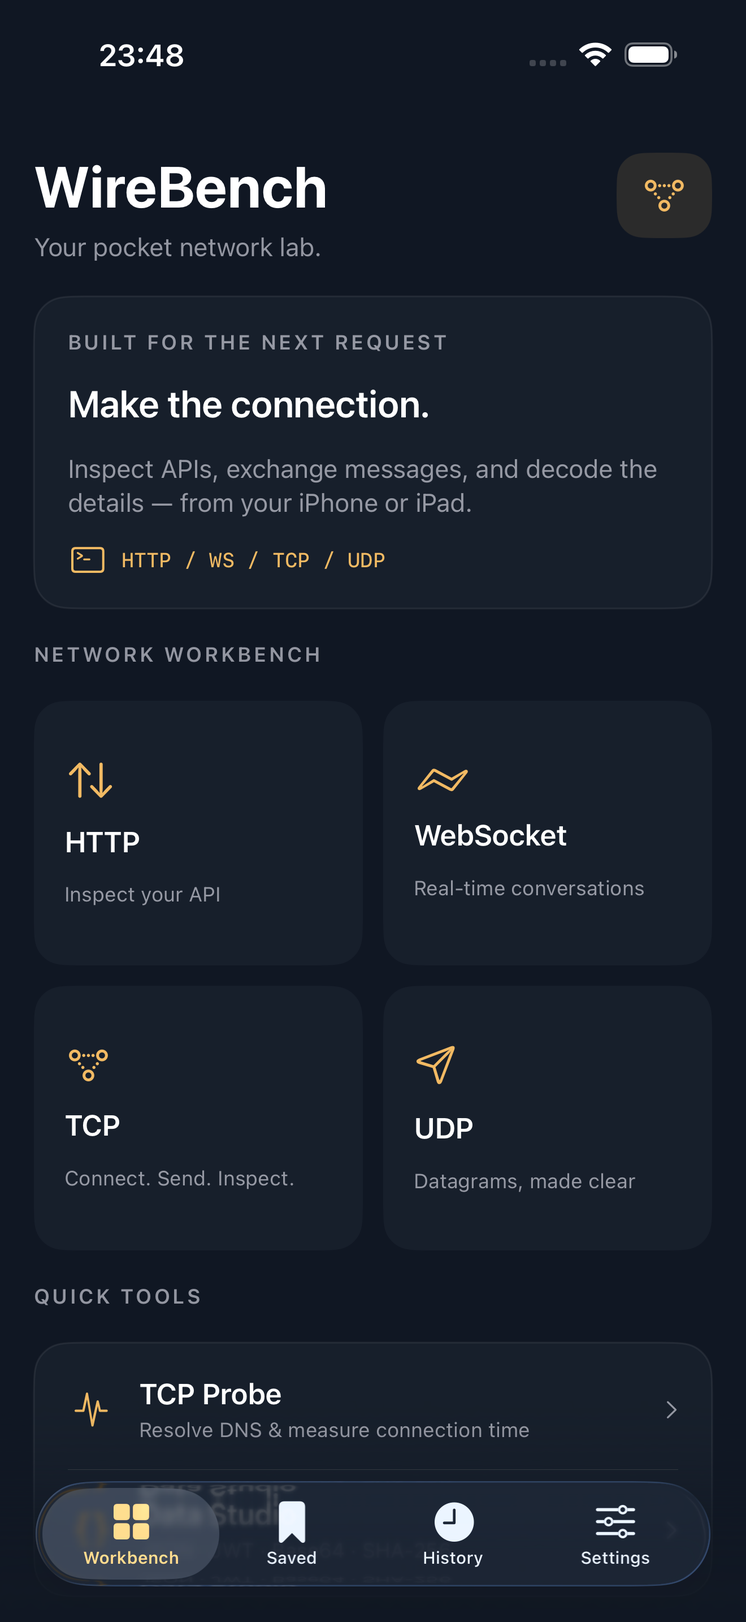
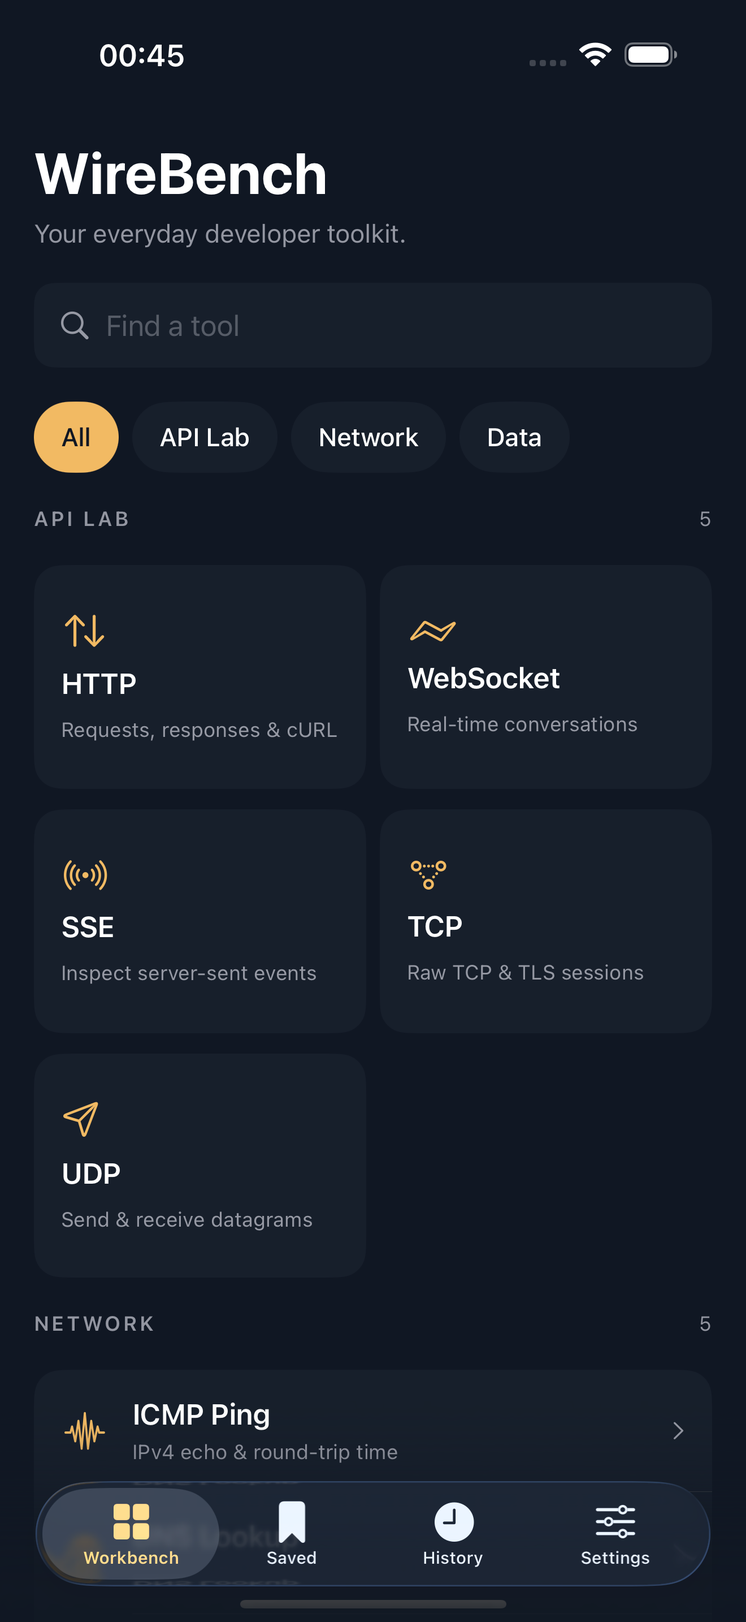
Expand WireBench developer toolkit for iPhone

diff --git a/support.html b/support.html
@@ -1,4 +1,4 @@
 <!doctype html><html lang="en"><head><meta charset="utf-8"><meta name="viewport" content="width=device-width,initial-scale=1"><title>Support — WireBench</title><meta name="description" content="WireBench support, getting started, connection help and developer contact."><link rel="icon" href="icon.png"><link rel="stylesheet" href="style.css"></head><body><header><a class="brand" href="./"><img src="icon.png" alt="">WireBench</a><nav><a href="privacy.html" data-en="Privacy" data-zh="隐私政策">Privacy</a><button id="language">中文</button></nav></header><main class="document">
-<article data-language="en"><p class="eyebrow">HERE TO HELP</p><h1>Back to building.</h1><p>For help with WireBench, email <a href="mailto:540933120@qq.com?subject=WireBench%20Support">540933120@qq.com</a>. Include your app version, iOS version, tool and reproduction steps. Remove passwords, tokens and private payloads before sending screenshots or logs.</p><h2>Get started</h2><ol><li>Choose HTTP, WebSocket, TCP, UDP or TCP Probe on the Workbench.</li><li>Enter a server address and the required port or scheme. Use an endpoint you control or are authorized to test.</li><li>Tap Send, Connect or Probe. For socket tools, enter a message after connection and tap Send message.</li><li>Use the bookmark button to save an endpoint. Headers, bodies and recognized credentials are not saved.</li></ol><h2>Why won't my local server connect?</h2><p>Check that your device and server can reach each other, that the service is listening on the right network interface, and that the port and protocol match. On a physical iPhone, 127.0.0.1 refers to the phone, not your Mac. Use your development computer's reachable address. Check iOS Settings → Privacy & Security → Local Network and your firewall.</p><h2>Why did the connection close?</h2><p>WireBench ends sessions when it enters the background or you leave the tool. iOS does not allow an ordinary utility app to keep arbitrary network sessions running indefinitely in the background.</p><h2>Limits and formats</h2><p>HTTP responses are limited to 2 MiB; request bodies and WebSocket messages to 256 KiB. UDP payloads must contain 1–65,507 bytes; empty datagrams are not reliably supported by the system networking API. Session logs retain the newest entries up to 200 messages and a 4 MiB text budget. Data Studio accepts up to 1 MiB of input. TCP is a byte stream: receive events are chunks and are not guaranteed to match individual sends. HEX input uses pairs of hexadecimal digits; whitespace is allowed. Base64 input must be valid Base64.</p><h2>Trust and interpretation</h2><p>TLS uses normal system trust. Untrusted certificates are rejected. TCP Probe measures connection setup, not ICMP round-trip time. UDP readiness is not proof of delivery. JWT decoding does not verify a signature or validate claims. Redaction helps with common credentials, but always inspect shared content. TCP and encoded binary session exports omit payloads and include only metadata, because stream chunks may split a credential.</p><h2>Delete local data</h2><p>Open Settings → Delete all local records. You can also delete individual saved endpoints or clear history. See the <a href="privacy.html">privacy policy</a> for backups, sharing and support email handling.</p></article>
-<article data-language="zh" hidden><p class="eyebrow">使用支持</p><h1>继续专注开发。</h1><p>如需帮助，请发送邮件至 <a href="mailto:540933120@qq.com?subject=WireBench%20Support">540933120@qq.com</a>。请说明应用版本、iOS 版本、使用的工具与复现步骤。发送截图和日志前，请移除密码、令牌与私密报文。</p><h2>快速开始</h2><ol><li>在工作台选择 HTTP、WebSocket、TCP、UDP 或 TCP 探测。</li><li>输入服务器地址及端口或协议。仅测试你拥有或获授权的端点。</li><li>点击发送、连接或探测。Socket 工具连接后可输入消息并发送。</li><li>点击书签按钮保存端点。请求头、请求体与识别出的凭证不会保存。</li></ol><h2>为什么连不上本地服务器？</h2><p>检查设备与服务器是否互通，服务是否监听正确的网络接口，端口和协议是否匹配。真机上的 127.0.0.1 指向手机自身，而非 Mac，请使用开发电脑可访问的地址。检查 iOS“设置 → 隐私与安全性 → 本地网络”以及防火墙。</p><h2>为什么连接会关闭？</h2><p>应用进入后台或离开工具页时，会结束会话。iOS 不允许普通工具应用在后台无限维持任意网络连接。</p><h2>容量与格式</h2><p>HTTP 响应上限 2 MiB，请求体和 WebSocket 单条消息上限 256 KiB。UDP 发送内容应包含 1–65,507 字节；系统网络 API 无法可靠处理空数据报。会话日志最多保留最新 200 条，并有 4 MiB 文本总量限制。数据工坊输入上限 1 MiB。TCP 是字节流，接收块不保证与每次发送一一对应。HEX 输入应为成对十六进制数字，可包含空格；Base64 输入应符合 Base64 格式。</p><h2>如何理解结果？</h2><p>TLS 使用系统信任校验，不可信证书会被拒绝。TCP 探测测量建连耗时，并非 ICMP 往返时间。UDP 就绪不代表已送达。JWT 解码不验证签名或声明可信性。脱敏只能帮助识别常见凭证，请务必检查分享内容。TCP 与编码后二进制会话的导出省略报文，仅保留元数据，因为流分块可能拆开一个凭证。</p><h2>删除本地数据</h2><p>进入“设置 → 删除全部本地记录”，也可单独删除收藏或清空历史。关于备份、分享与支持邮件处理，请查看<a href="privacy.html">隐私政策</a>。</p></article>
+<article data-language="en"><p class="eyebrow">HERE TO HELP</p><h1>Back to building.</h1><p>For help with WireBench, email <a href="mailto:540933120@qq.com?subject=WireBench%20Support">540933120@qq.com</a>. Include your app version, iOS version, tool and reproduction steps. Remove passwords, tokens and private payloads before sending screenshots or logs.</p><h2>Get started</h2><ol><li>Search the Workbench or choose API Lab, Network or Data. Open the tool for your task.</li><li>Enter a server address and the required port or scheme. Use an endpoint you control or are authorized to test.</li><li>Tap Send, Connect or Probe. For socket tools, enter a message after connection and tap Send message.</li><li>Use the bookmark button to save an endpoint. Headers, bodies and recognized credentials are not saved.</li></ol><h2>Why won't my local server connect?</h2><p>Check that your device and server can reach each other, that the service is listening on the right network interface, and that the port and protocol match. On a physical iPhone, 127.0.0.1 refers to the phone, not your Mac. Use your development computer's reachable address. Check iOS Settings → Privacy & Security → Local Network and your firewall.</p><h2>Why did the connection close?</h2><p>WireBench ends sessions when it enters the background or you leave the tool. iOS does not allow an ordinary utility app to keep arbitrary network sessions running indefinitely in the background.</p><h2>Limits and formats</h2><p>HTTP responses are limited to 2 MiB; request bodies and WebSocket messages to 256 KiB. UDP payloads must contain 1–65,507 bytes; empty datagrams are not reliably supported by the system networking API. Session logs retain the newest entries up to 200 messages and a 4 MiB text budget. Data Studio accepts up to 1 MiB of input. TCP is a byte stream: receive events are chunks and are not guaranteed to match individual sends. HEX input uses pairs of hexadecimal digits; whitespace is allowed. Base64 input must be valid Base64.</p><h2>Trust and interpretation</h2><p>TLS uses normal system trust. Untrusted certificates are rejected. TCP Probe measures connection setup, not ICMP round-trip time. UDP readiness is not proof of delivery. JWT decoding does not verify a signature or validate claims. Redaction helps with common credentials, but always inspect shared content. TCP and encoded binary session exports omit payloads and include only metadata, because stream chunks may split a credential.</p><h2>New diagnostic and import tools</h2><p>ICMP Ping sends four IPv4 echo requests; filtered replies can time out even when a server is healthy. DNS Lookup uses the system resolver for IPv4/IPv6 addresses. Port Check accepts up to 16 comma-separated TCP ports on one host. TLS Inspector uses normal system trust and shows the negotiated protocol, cipher and certificate-chain subject/fingerprints. It does not display unverified certificate dates. SSE stops at 200 events, 4 MiB, 30 seconds of inactivity or five minutes total; it does not reconnect automatically. cURL imports support a documented subset, do not execute shell commands, and never send automatically.</p><h2>Delete local data</h2><p>Open Settings → Delete all local records. You can also delete individual saved endpoints or clear history. See the <a href="privacy.html">privacy policy</a> for backups, sharing and support email handling.</p></article>
+<article data-language="zh" hidden><p class="eyebrow">使用支持</p><h1>继续专注开发。</h1><p>如需帮助，请发送邮件至 <a href="mailto:540933120@qq.com?subject=WireBench%20Support">540933120@qq.com</a>。请说明应用版本、iOS 版本、使用的工具与复现步骤。发送截图和日志前，请移除密码、令牌与私密报文。</p><h2>快速开始</h2><ol><li>在工作台搜索工具，或筛选接口联调、网络诊断与数据工具分类。</li><li>输入服务器地址及端口或协议。仅测试你拥有或获授权的端点。</li><li>点击发送、连接或探测。Socket 工具连接后可输入消息并发送。</li><li>点击书签按钮保存端点。请求头、请求体与识别出的凭证不会保存。</li></ol><h2>为什么连不上本地服务器？</h2><p>检查设备与服务器是否互通，服务是否监听正确的网络接口，端口和协议是否匹配。真机上的 127.0.0.1 指向手机自身，而非 Mac，请使用开发电脑可访问的地址。检查 iOS“设置 → 隐私与安全性 → 本地网络”以及防火墙。</p><h2>为什么连接会关闭？</h2><p>应用进入后台或离开工具页时，会结束会话。iOS 不允许普通工具应用在后台无限维持任意网络连接。</p><h2>容量与格式</h2><p>HTTP 响应上限 2 MiB，请求体和 WebSocket 单条消息上限 256 KiB。UDP 发送内容应包含 1–65,507 字节；系统网络 API 无法可靠处理空数据报。会话日志最多保留最新 200 条，并有 4 MiB 文本总量限制。数据工坊输入上限 1 MiB。TCP 是字节流，接收块不保证与每次发送一一对应。HEX 输入应为成对十六进制数字，可包含空格；Base64 输入应符合 Base64 格式。</p><h2>如何理解结果？</h2><p>TLS 使用系统信任校验，不可信证书会被拒绝。TCP 探测测量建连耗时，并非 ICMP 往返时间。UDP 就绪不代表已送达。JWT 解码不验证签名或声明可信性。脱敏只能帮助识别常见凭证，请务必检查分享内容。TCP 与编码后二进制会话的导出省略报文，仅保留元数据，因为流分块可能拆开一个凭证。</p><h2>新增诊断与导入工具</h2><p>ICMP Ping 发送 4 次 IPv4 回显请求，服务正常时也可能因过滤而超时。DNS 查询使用系统解析器返回 IPv4 / IPv6 地址。端口检测支持单主机最多 16 个以英文逗号分隔的 TCP 端口。TLS 检查使用系统信任，展示协商协议、密码套件以及证书链主体和指纹，不显示未经读取的证书日期。SSE 达到 200 条事件、4 MiB、30 秒无活动或总时长 5 分钟时停止，不自动重连。cURL 导入仅支持应用列明的语法子集，不执行 Shell 命令，也不会自动发送。</p><h2>删除本地数据</h2><p>进入“设置 → 删除全部本地记录”，也可单独删除收藏或清空历史。关于备份、分享与支持邮件处理，请查看<a href="privacy.html">隐私政策</a>。</p></article>
 </main><footer><span>© 2026 Peng Lin · WireBench</span><a href="./" data-en="Back to WireBench" data-zh="返回 WireBench">Back to WireBench</a></footer><script src="language.js"></script></body></html>

diff --git a/index.html b/index.html
@@ -1,12 +1,12 @@
-<!doctype html><html lang="en"><head><meta charset="utf-8"><meta name="viewport" content="width=device-width,initial-scale=1"><meta name="description" content="WireBench — a native network workbench for iPhone and iPad. HTTP, WebSocket, TCP, UDP and everyday developer data tools."><meta name="theme-color" content="#101723"><title>WireBench — Your pocket network lab</title><link rel="icon" href="icon.png"><link rel="stylesheet" href="style.css"></head><body>
+<!doctype html><html lang="en"><head><meta charset="utf-8"><meta name="viewport" content="width=device-width,initial-scale=1"><meta name="description" content="WireBench — a native network workbench for iPhone. API clients, ICMP Ping, DNS, TLS, cURL and everyday data tools."><meta name="theme-color" content="#101723"><title>WireBench — Your everyday developer toolkit</title><link rel="icon" href="icon.png"><link rel="stylesheet" href="style.css"></head><body>
 <header><a class="brand" href="./"><img src="icon.png" alt="">WireBench</a><nav><a href="support.html" data-en="Support" data-zh="使用支持">Support</a><a href="privacy.html" data-en="Privacy" data-zh="隐私政策">Privacy</a><button id="language" aria-label="Switch language">中文</button></nav></header>
-<main><section class="hero"><div><p class="eyebrow" data-en="THE DEVELOPER'S POCKET WORKBENCH" data-zh="开发者的随身联调台">THE DEVELOPER'S POCKET WORKBENCH</p><h1 data-en="Make the<br>connection." data-zh="让连接，<br>清晰可见。">Make the<br>connection.</h1><p class="lead" data-en="A thoughtful network toolkit for the moments between your desk and your next idea. Inspect APIs, exchange messages, and decode the details." data-zh="为日常开发中的小任务准备。检查接口、收发报文、解析数据，在 iPhone 和 iPad 上把问题看清楚。">A thoughtful network toolkit for the moments between your desk and your next idea. Inspect APIs, exchange messages, and decode the details.</p><div class="pillrow"><span class="pill">HTTP / HTTPS</span><span class="pill">WS / WSS</span><span class="pill">TCP / UDP</span></div><a class="cta" href="#tools" data-en="Explore the workbench ↓" data-zh="了解工具能力 ↓">Explore the workbench ↓</a><p class="note" data-en="For iPhone & iPad · iOS 17 or later · English & 简体中文" data-zh="适用于 iPhone 与 iPad · iOS 17 及以上 · 中英文">For iPhone & iPad · iOS 17 or later · English & 简体中文</p></div><img class="shot" src="workbench.png" alt="WireBench running on iPhone, showing its network tools"></section>
+<main><section class="hero"><div><p class="eyebrow" data-en="THE DEVELOPER'S POCKET WORKBENCH" data-zh="开发者的随身联调台">THE DEVELOPER'S POCKET WORKBENCH</p><h1 data-en="Build. Inspect.<br>Understand." data-zh="开发所需，<br>随手可用。">Build. Inspect.<br>Understand.</h1><p class="lead" data-en="A thoughtful network toolkit for the moments between your desk and your next idea. Inspect APIs, exchange messages, and decode the details." data-zh="为日常开发中的小任务准备。检查接口、收发报文、解析数据，在 iPhone 上把问题看清楚。">A thoughtful network toolkit for the moments between your desk and your next idea. Inspect APIs, exchange messages, and decode the details.</p><div class="pillrow"><span class="pill">API / cURL / SSE</span><span class="pill">Ping / DNS / TLS</span><span class="pill">JSON / HEX / UUID</span></div><a class="cta" href="#tools" data-en="Explore the workbench ↓" data-zh="了解工具能力 ↓">Explore the workbench ↓</a><p class="note" data-en="For iPhone · iOS 17 or later · English & 简体中文" data-zh="适用于 iPhone · iOS 17 及以上 · 中英文">For iPhone · iOS 17 or later · English & 简体中文</p></div><img class="shot" src="workbench.png" alt="WireBench running on iPhone, showing its network tools"></section>
 <section id="tools"><p class="eyebrow" data-en="LESS FRICTION. MORE CLARITY." data-zh="让每一次联调更清晰">LESS FRICTION. MORE CLARITY.</p><h2 class="section-title" data-en="One workbench. The right tools." data-zh="一个工作台，装下常用工具。">One workbench. The right tools.</h2><div class="grid">
-<article class="card"><span class="number">01 / REQUEST</span><h3>HTTP & HTTPS</h3><p data-en="Methods, custom headers and request bodies. Inspect status, duration, headers and response content in one place." data-zh="编辑请求方法、自定义请求头和请求体，在一处查看状态码、耗时与响应内容。">Methods, custom headers and request bodies. Inspect status, duration, headers and response content in one place.</p></article>
-<article class="card"><span class="number">02 / CONVERSATION</span><h3>WebSocket</h3><p data-en="Connect with WS or WSS, send text or binary messages, ping the connection, and follow a timestamped traffic log." data-zh="连接 WS / WSS，发送文本或二进制消息，执行协议 Ping，并查看带时间戳的收发报文。">Connect with WS or WSS, send text or binary messages, ping the connection, and follow a timestamped traffic log.</p></article>
+<article class="card"><span class="number">01 / REQUEST</span><h3>HTTP & HTTPS</h3><p data-en="Build requests or import a cURL command. Inspect status, timing, headers and content, then export a redacted cURL request." data-zh="编辑请求或导入 cURL，查看状态码、耗时、响应头和内容，再导出脱敏后的 cURL 请求。">Build requests or import a cURL command. Inspect status, timing, headers and content, then export a redacted cURL request.</p></article>
+<article class="card"><span class="number">02 / CONVERSATION</span><h3>WebSocket & SSE</h3><p data-en="Exchange WS/WSS messages and protocol pings, or inspect server-sent events with event names, IDs and multiline data." data-zh="收发 WS / WSS 消息与协议 Ping，或订阅 SSE，查看事件类型、ID 和多行数据。">Exchange WS/WSS messages and protocol pings, or inspect server-sent events with event names, IDs and multiline data.</p></article>
 <article class="card"><span class="number">03 / TRANSPORT</span><h3>TCP & UDP</h3><p data-en="Work directly with an endpoint in UTF-8, HEX or Base64. Enable TLS for TCP when your service needs it." data-zh="直接与端点交换数据，支持 UTF-8、HEX 与 Base64。服务需要加密时，可为 TCP 启用 TLS。">Work directly with an endpoint in UTF-8, HEX or Base64. Enable TLS for TCP when your service needs it.</p></article>
-<article class="card"><span class="number">04 / DIAGNOSE</span><h3 data-en="TCP Probe" data-zh="TCP 探测">TCP Probe</h3><p data-en="Resolve DNS and measure connection setup, including an optional TLS handshake. A focused connectivity check." data-zh="解析 DNS 并测量连接建立耗时，可包含 TLS 握手，快速检查服务端口的连通性。">Resolve DNS and measure connection setup, including an optional TLS handshake. A focused connectivity check.</p></article>
-<article class="card"><span class="number">05 / TRANSFORM</span><h3 data-en="Data Studio" data-zh="数据工坊">Data Studio</h3><p data-en="JSON formatting and validation, JWT decoding, Base64, URL components, SHA-256 and timestamp conversion. Processed on your device." data-zh="JSON 格式化与校验、JWT 解码、Base64、URL 组件、SHA-256 与时间戳转换，均在本机处理。">JSON formatting and validation, JWT decoding, Base64, URL components, SHA-256 and timestamp conversion. Processed on your device.</p></article>
+<article class="card"><span class="number">04 / DIAGNOSE</span><h3 data-en="Network diagnostics" data-zh="网络诊断">Network diagnostics</h3><p data-en="Send IPv4 ICMP pings, resolve IPv4/IPv6 addresses, inspect TLS trust and certificate fingerprints, and check selected TCP ports." data-zh="发送 IPv4 ICMP Ping，查询 IPv4 / IPv6 地址，检查 TLS 信任与证书指纹，检测指定 TCP 端口。">Send IPv4 ICMP pings, resolve IPv4/IPv6 addresses, inspect TLS trust and certificate fingerprints, and check selected TCP ports.</p></article>
+<article class="card"><span class="number">05 / TRANSFORM</span><h3 data-en="Data Studio" data-zh="数据工坊">Data Studio</h3><p data-en="Nine data tools: JSON, JWT, Base64, URL encoding, HEX, SHA-256, timestamps, UUIDs and URL inspection. Search and open a tool directly." data-zh="九种数据工具：JSON、JWT、Base64、URL 编解码、HEX、SHA-256、时间戳、UUID、URL 解析。支持搜索和直接打开。">Nine data tools: JSON, JWT, Base64, URL encoding, HEX, SHA-256, timestamps, UUIDs and URL inspection. Search and open a tool directly.</p></article>
 <article class="card"><span class="number">06 / RETURN</span><h3 data-en="Pick up where you left off" data-zh="常用端点，随时再用">Pick up where you left off</h3><p data-en="Save endpoint configurations, revisit recent summaries, and review redacted text before sharing. Light and dark themes fit your day." data-zh="保存端点配置，查看最近操作摘要，分享前检查脱敏内容。深浅色主题适应不同环境。">Save endpoint configurations, revisit recent summaries, and review redacted text before sharing. Light and dark themes fit your day.</p></article>
 </div></section><section class="feature-band"><div><h2 data-en="Your device. Your workflow." data-zh="在你的设备上，按你的方式工作。">Your device. Your workflow.</h2><p data-en="No account is needed. Requests go directly to the server you choose. Saved configurations omit request headers, bodies and recognized URL credentials." data-zh="无需账号。请求直接发送到你选择的服务器。保存配置时会省略请求头、请求体与识别出的 URL 凭证。">No account is needed. Requests go directly to the server you choose. Saved configurations omit request headers, bodies and recognized URL credentials.</p></div><div><h2 data-en="Clear about the boundaries." data-zh="能力边界，同样清楚。">Clear about the boundaries.</h2><p data-en="Sessions run in the foreground. TCP Probe is not ICMP Ping. JWT decoding does not verify signatures. UDP delivery is not guaranteed. WireBench does not intercept other apps' traffic." data-zh="会话在前台运行。TCP 探测不是 ICMP Ping，JWT 解码不验证签名，UDP 不保证送达。WireBench 不截取其他 App 的流量。">Sessions run in the foreground. TCP Probe is not ICMP Ping. JWT decoding does not verify signatures. UDP delivery is not guaranteed. WireBench does not intercept other apps' traffic.</p></div></section></main>
 <footer><span>© 2026 Peng Lin · WireBench</span><span><a href="support.html" data-en="Support" data-zh="使用支持">Support</a> · <a href="privacy.html" data-en="Privacy policy" data-zh="隐私政策">Privacy policy</a></span></footer><script src="language.js"></script></body></html>

diff --git a/privacy.html b/privacy.html
@@ -1,12 +1,12 @@
 <!doctype html><html lang="en"><head><meta charset="utf-8"><meta name="viewport" content="width=device-width,initial-scale=1"><title>Privacy policy — WireBench</title><meta name="description" content="How WireBench handles network requests, local configurations, history and support messages."><link rel="icon" href="icon.png"><link rel="stylesheet" href="style.css"></head><body><header><a class="brand" href="./"><img src="icon.png" alt="">WireBench</a><nav><a href="support.html" data-en="Support" data-zh="使用支持">Support</a><button id="language">中文</button></nav></header><main class="document">
-<article data-language="en"><p class="eyebrow">LAST UPDATED · OCTOBER 8, 2026</p><h1>Privacy, in plain words.</h1><p>This policy applies to the WireBench iOS and iPadOS app and this website. The developer is Peng Lin. Contact: <a href="mailto:540933120@qq.com">540933120@qq.com</a>.</p>
+<article data-language="en"><p class="eyebrow">LAST UPDATED · OCTOBER 9, 2026</p><h1>Privacy, in plain words.</h1><p>This policy applies to the WireBench iPhone app and this website. The developer is Peng Lin. Contact: <a href="mailto:540933120@qq.com">540933120@qq.com</a>.</p>
 <h2>1. Data we collect through the app</h2><p>WireBench does not require an account and does not send app analytics, identifiers, request content or usage history to a developer-operated service. The app contains no third-party analytics SDK. Data Studio transformations run on your device.</p>
 <h2>2. Connections you initiate</h2><p>When you start a request or connection, the address, headers, payload and network information needed for that connection are sent directly to the server you specify. That server and network providers may receive your IP address and process or retain data under their own policies. DNS queries use your device's network configuration. Choose endpoints you trust and send only information you intend to disclose.</p><p>HTTP, WS, plain TCP and UDP do not provide transport encryption. HTTPS, WSS and TCP with TLS use system certificate validation. WireBench does not intercept other apps' traffic and does not run a VPN. Local network permission is used to connect to development devices and servers that you choose; you can change it in iOS Settings.</p>
 <h2>3. Local records and retention</h2><p>Saved endpoint configurations and up to 100 recent activity summaries are stored in the app's local container. Request headers and bodies are not saved with configurations. Recognized URL credentials are redacted. Activity history does not retain response bodies or exchanged messages. Session logs are kept in memory with bounded limits and are discarded when their view is released or the app exits. You can clear a session, delete a saved configuration, clear history, or use Settings → Delete all local records.</p><p>Redaction is a heuristic and cannot recognize every secret or business field. Review URLs before saving and content before sharing. Local records may be included in device backups according to your Apple backup settings. Uninstalling the app removes its current local container; separate device backups are managed through Apple settings.</p>
 <h2>4. Sharing and support</h2><p>Sharing is initiated by you through the iOS share sheet after a preview. The destination app or recipient then handles the shared text. Contacting support opens your email application. If you send an email, we receive the address and information you include and use them only to respond and troubleshoot. Please do not send access tokens, passwords or private payloads. Support messages are retained only as needed to handle the request and any required recordkeeping. Email us to request deletion.</p>
 <h2>5. Website hosting</h2><p>This static website is hosted on GitHub Pages. Visiting it sends ordinary web request information, including your IP address and browser request headers, to GitHub. See <a href="https://docs.github.com/en/site-policy/privacy-policies/github-general-privacy-statement">GitHub's privacy statement</a>. This site does not use analytics, tracking cookies or contact forms. The language switch runs in your browser without storing a preference.</p>
 <h2>6. Changes and questions</h2><p>If data practices change, this page will be updated with a new effective date. For questions or support data requests, contact <a href="mailto:540933120@qq.com">540933120@qq.com</a>.</p></article>
-<article data-language="zh" hidden><p class="eyebrow">更新日期 · 2026 年 10 月 8 日</p><h1>清楚说明如何处理数据。</h1><p>本政策适用于 WireBench iOS / iPadOS 应用与本网站。开发者：Peng Lin。联系方式：<a href="mailto:540933120@qq.com">540933120@qq.com</a>。</p>
+<article data-language="zh" hidden><p class="eyebrow">更新日期 · 2026 年 10 月 9 日</p><h1>清楚说明如何处理数据。</h1><p>本政策适用于 WireBench iPhone 应用与本网站。开发者：Peng Lin。联系方式：<a href="mailto:540933120@qq.com">540933120@qq.com</a>。</p>
 <h2>1. 应用中的数据处理</h2><p>WireBench 不要求创建账号，不向开发者运营的服务发送应用分析、标识符、请求内容或使用历史。应用不集成第三方统计 SDK。数据工坊的转换在你的设备上完成。</p>
 <h2>2. 你主动发起的网络连接</h2><p>当你发起请求或连接时，地址、请求头、载荷以及建立连接所需的网络信息会直接发送给你指定的服务器。该服务器及网络服务商可能接收你的 IP 地址，并按各自政策处理或保留数据。DNS 查询遵循设备的网络配置。请选择可信端点，仅发送你打算披露的信息。</p><p>HTTP、WS、普通 TCP 和 UDP 不提供传输加密。HTTPS、WSS 及启用 TLS 的 TCP 使用系统证书校验。WireBench 不截取其他 App 的流量，不运行 VPN。本地网络权限仅用于连接你选择的开发设备和服务器，可在 iOS 设置中调整。</p>
 <h2>3. 本地记录与保留期限</h2><p>收藏端点与最多 100 条最近操作摘要保存在应用本地容器。保存配置时不保存请求头或请求体，并对识别出的 URL 凭证脱敏。历史记录不保存响应体和收发消息。会话报文只在有限额的内存中保留，在相应页面释放或应用退出后丢弃。你可以清空会话、删除收藏、清空历史，或进入“设置 → 删除全部本地记录”。</p><p>自动脱敏无法识别全部秘密或业务字段。保存前请检查 URL，分享前请检查内容。本地记录可能根据你的 Apple 备份设置包含在设备备份中。卸载应用会删除当前本地容器；独立的设备备份请在 Apple 设置中管理。</p>
